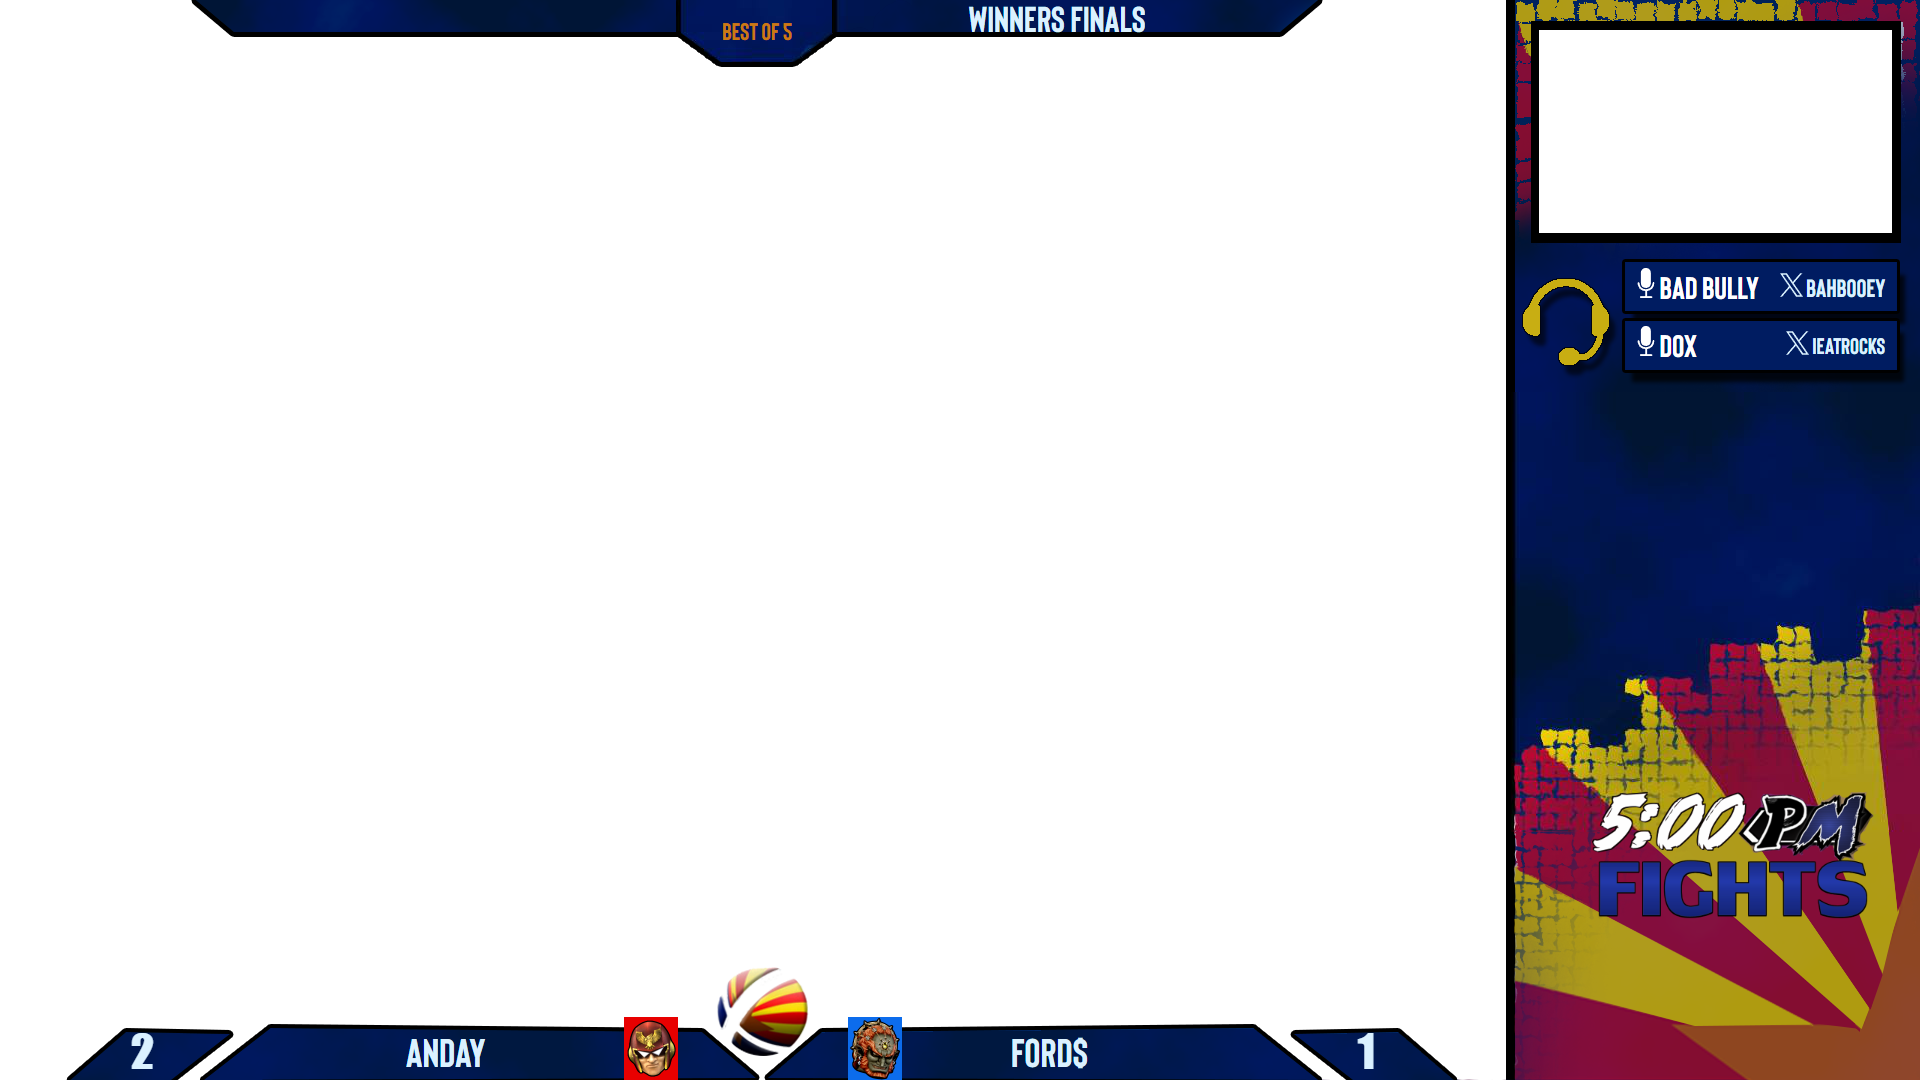
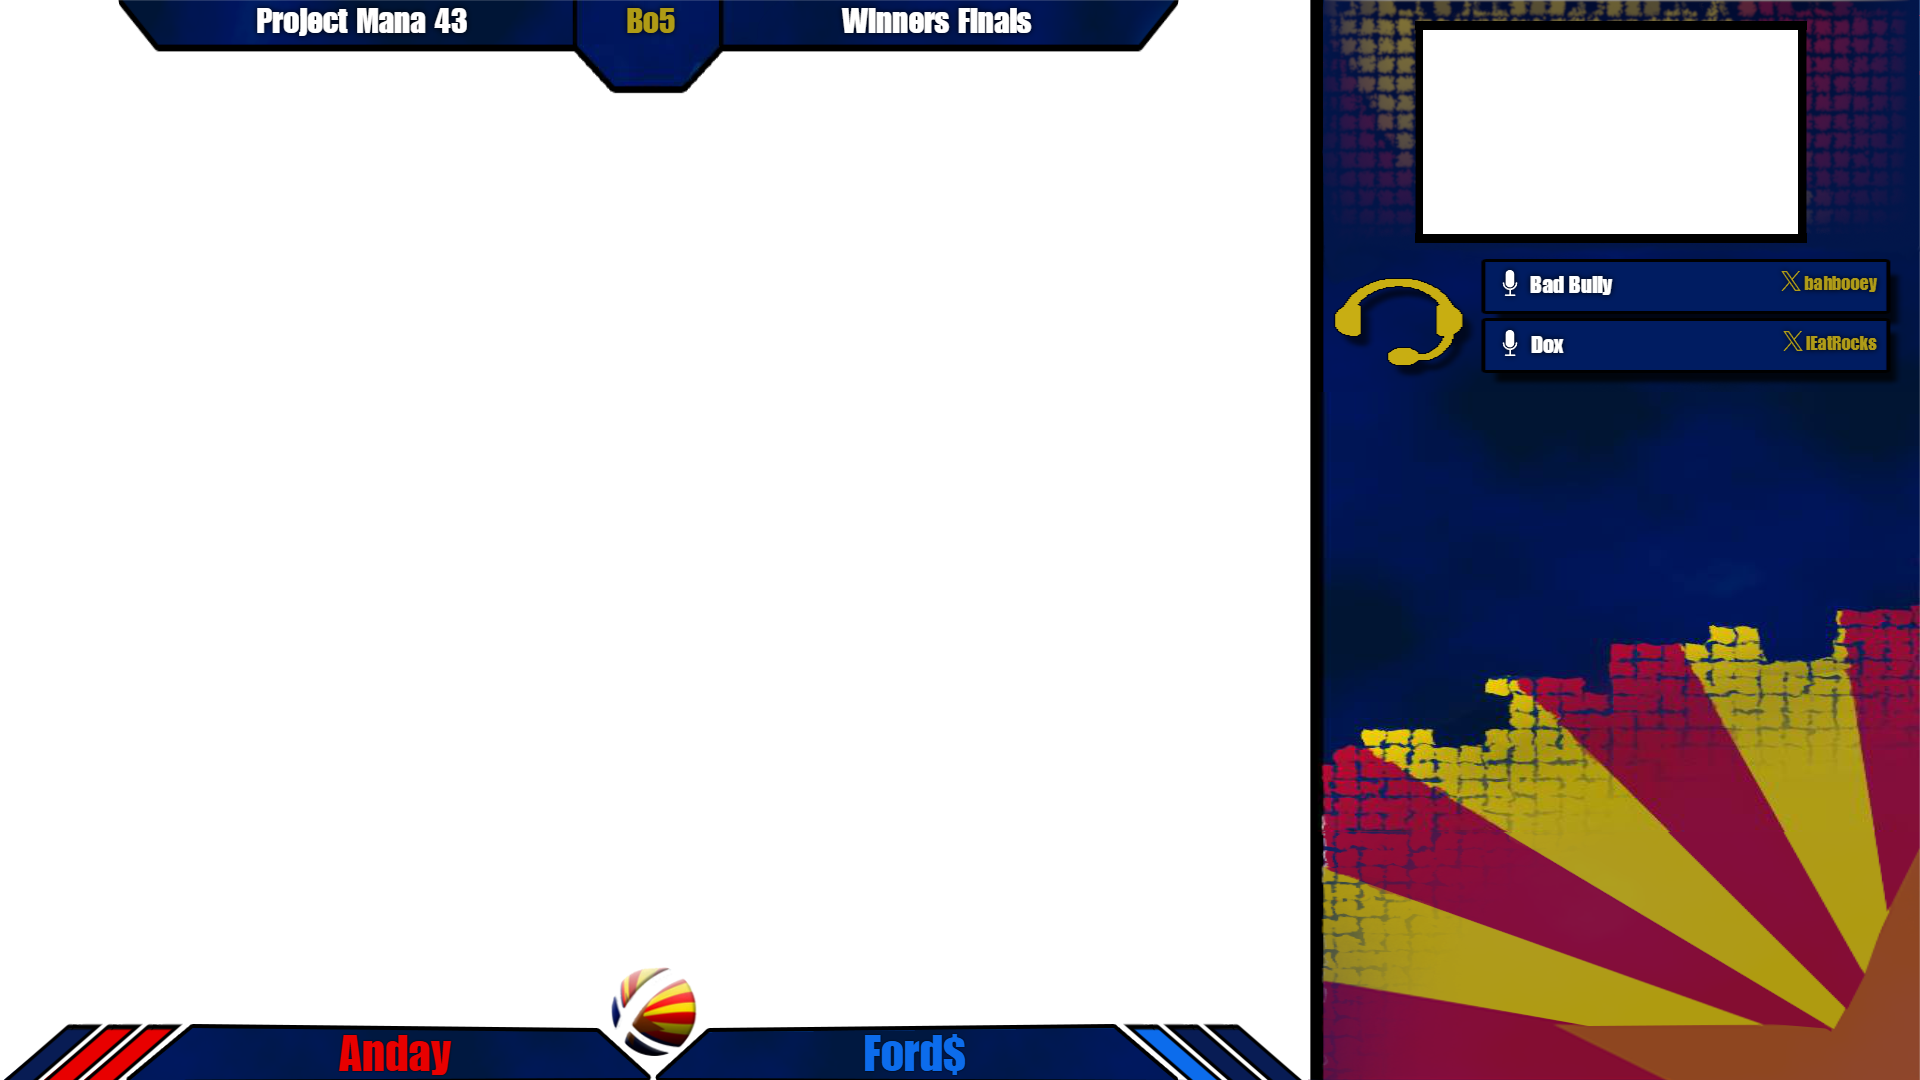
AZPM Singles: match the 2023 layout
Frame with the 1310x1080 game area, score ticks that fill with the team
colour, names in the team colour, tournament name and Bo3/Bo5 in the top
bar. Character icons, numeric score and logo slideshow removed from this
page. In doubles each side shows 'player & player'.

Changed region(s): [[0.0625, 0.0, 1.0, 1.0], [0.0, 0.9472, 0.2812, 1.0], [0.8438, 0.3667, 0.9062, 0.4278]]

diff --git a/Stream Tool/Resources/AZPM/CSS/Game Layouts.css b/Stream Tool/Resources/AZPM/CSS/Game Layouts.css
@@ -1,6 +1,7 @@
 /*
 AZPM game layouts: AZPM Singles.html, AZPM Doubles.html, AZPM Commentary.html.
-Ported from the AZPM 2022 Stream Tool v1.5 (SinglesLayout / DubsLayout / Commentary).
+Singles is ported from the AZPM Stream Tool V1 of 2023 (Game Scoreboard 4.3),
+Doubles and Commentary from the AZPM 2022 Stream Tool v1.5.
 Positions are in px on a 1920x1080 canvas and follow the frame art in
 Resources/AZPM/Overlay/Game Layouts.
 */
@@ -19,6 +20,9 @@ Resources/AZPM/Overlay/Game Layouts.
 }
 
 body {
+    /* team colours, set by Layout.mjs */
+    --colorL: white;
+    --colorR: white;
     width: 1920px;
     height: 1080px;
     overflow: hidden;
@@ -33,6 +37,10 @@ body {
     position: absolute;
     left: 0;
     top: 0;
+}
+
+.mirror {
+    transform: scaleX(-1);
 }
 
 /* every text box: fixed place, text centered, shrinks to fit (see Layout.mjs) */
@@ -102,140 +110,146 @@ body {
 }
 
 
-/* ---------- AZPM Singles (4:3 game on the left, cam and casters on the right) ---------- */
+/* ---------- AZPM Singles (game on the left, cam and casters on the right) ----------
+   The game area of the frame is 1310x1080 (x 0-1309), the 640:528 shape of the
+   game's own picture. Also used for doubles: each side then shows "player & player". */
 
 .singles {
-    font-family: "Bison";
+    font-family: "ScoreFont";
 }
 
-.singles #round {
-    left: 857px;
+/* top bar: tournament, best of, round */
+.singles .topText {
     top: 0;
-    width: 400px;
-    height: 36px;
-    line-height: 36px;
+    height: 44px;
+    line-height: 43px;
+    filter: drop-shadow(0px 0px 3px black);
+}
+.singles #tournament {
+    left: 172px;
+    width: 380px;
 }
 .singles #bestOf {
-    left: 687px;
-    top: 17px;
-    width: 140px;
-    height: 28px;
-    line-height: 28px;
-    color: #CA7A13;
+    left: 586px;
+    width: 130px;
+    color: #AF9B15;
+}
+.singles #round {
+    left: 757px;
+    width: 360px;
 }
 
+/* bottom bar: names in the team colour */
 .singles .wrappers {
-    top: 1024px;
-    width: 255px;
-    height: 56px;
-    line-height: 54px;
+    top: 1023px;
+    width: 400px;
+    height: 57px;
+    line-height: 62px;
+    filter: drop-shadow(0px 0px 1px #000000);
 }
 .singles #p1Wrapper {
-    left: 318px;
+    left: 195px;
+    color: var(--colorL);
 }
 .singles #p2Wrapper {
-    left: 922px;
+    left: 715px;
+    color: var(--colorR);
+}
+.singles .name {
+    transition: color .3s;
 }
 .singles .tag {
-    padding-right: 4px;
+    padding-right: 6px;
+    color: #BDAE42;
 }
 .singles .pronouns {
-    padding-left: 4px;
-    color: #9700C9;
-    font-style: italic;
+    padding-left: 6px;
+    color: #BDAE42;
 }
 
-.singles .score {
-    top: 1025px;
-    width: 154px;
-    height: 55px;
-    line-height: 55px;
-    font-family: "ScoreFont";
-    font-size: 50px;
-}
-.singles #p1Score {
-    left: 0;
-    text-align: right;
-}
-.singles #p2Score {
-    left: 1356px;
-    text-align: left;
-}
-
-/* team colour box with the character's stock icon on it */
-.singles .color {
+/* score ticks: one per game needed to win, filled with the team colour when won.
+   Same markup and offsets as the 2023 layout. */
+.singles .scores {
     position: absolute;
-    top: 1017px;
-    width: 54px;
-    height: 63px;
-    overflow: hidden;
+    bottom: 57px;
 }
-.singles #p1Color {
-    left: 624px;
+.singles #p1Ticks {
+    left: 82px;
 }
-.singles #p2Color {
-    left: 848px;
+.singles #p2Ticks {
+    left: 1123px;
 }
-.singles .charIcon {
-    position: absolute;
-    left: -5px;
-    top: 0;
-    width: 64px;
-    height: 64px;
-    visibility: hidden;
+.singles .scoreTick {
+    position: relative;
+    transition: opacity .3s;
+}
+.singles .scoreTick polygon {
+    fill: #081C54;
+}
+.singles .scoreTickColor {
+    width: 100px;
+    height: 100px;
+}
+.singles #p1Ticks .scoreTick:nth-child(2) {
+    right: 40px;
+}
+.singles #p1Ticks .scoreTick:nth-child(3) {
+    right: 80px;
+}
+.singles #p2Ticks .scoreTick:nth-child(2) {
+    left: 40px;
+}
+.singles #p2Ticks .scoreTick:nth-child(3) {
+    left: 80px;
 }
 
+/* right panel: casters */
 .singles .caster {
-    left: 1625px;
-    width: 272px;
+    left: 1485px;
+    width: 402px;
     height: 50px;
-    line-height: 50px;
+    line-height: 48px;
+    filter: drop-shadow(0px 0px 3px black);
 }
 .singles #caster1 {
-    top: 262px;
+    top: 261px;
 }
 .singles #caster2 {
-    top: 320px;
+    top: 321px;
 }
 .singles .casterNameBox {
     position: absolute;
-    left: 10px;
+    left: 12px;
     top: 0;
 }
 .singles .micIcon {
-    width: 30px;
-    height: 30px;
-    margin: 0 -4px;
-    vertical-align: -5px;
+    width: 26px;
+    height: 26px;
+    margin-right: 4px;
+    vertical-align: -6px;
 }
 .singles .casterName {
     display: inline-block;
-    width: 122px;
+    max-width: 200px;
     text-align: left;
     vertical-align: top;
 }
 .singles .casterSocial {
     position: absolute;
-    right: 12px;
-    top: 0;
+    right: 10px;
+    top: -2px;
+    color: #AF9B18;
 }
 .singles .casterSocial .icon {
-    width: 24px;
-    height: 24px;
-    vertical-align: -4px;
+    width: 20px;
+    height: 20px;
+    vertical-align: -3px;
 }
 .singles .socialText {
     display: inline-block;
-    max-width: 80px;
+    max-width: 130px;
     text-align: left;
     vertical-align: top;
-}
-
-.singles #sponsorBox {
-    left: 1580px;
-    top: 700px;
-    width: 300px;
-    height: 300px;
 }
 
 

diff --git a/Stream Tool/AZPM Singles.html b/Stream Tool/AZPM Singles.html
@@ -12,49 +12,69 @@
     <img class="absol" src="Resources/AZPM/Overlay/Game Layouts/Singles.png" alt="">
 
     <!-- top bar -->
-    <span id="bestOf" class="textBox" data-size="24"></span>
-    <span id="round" class="textBox light" data-size="36"></span>
+    <span id="tournament" class="textBox topText" data-size="35"></span>
+    <span id="bestOf" class="textBox topText" data-size="35" data-format="short"></span>
+    <span id="round" class="textBox topText" data-size="35"></span>
 
-    <!-- bottom bar: score, name, character icon on the team colour -->
-    <span id="p1Score" class="textBox score light"></span>
-    <span id="p1Wrapper" class="textBox wrappers light">
-        <span id="p1Tag" class="tag" data-size="26"></span><span id="p1Name" class="name" data-size="40"></span><span id="p1Pron" class="pronouns" data-size="20"></span>
+    <!-- bottom bar: names in the team colour -->
+    <span id="p1Wrapper" class="textBox wrappers">
+        <span id="p1Tag" class="tag" data-size="32"></span><span id="p1Name" class="name" data-size="50"></span><span id="p1Pron" class="pronouns" data-size="24"></span>
     </span>
-    <div id="p1Color" class="color">
-        <img id="p1Icon" class="charIcon" alt="">
+    <span id="p2Wrapper" class="textBox wrappers">
+        <span id="p2Tag" class="tag" data-size="32"></span><span id="p2Name" class="name" data-size="50"></span><span id="p2Pron" class="pronouns" data-size="24"></span>
+    </span>
+
+    <!-- score ticks, first game first: filled with the team colour when the game is won -->
+    <div id="p1Ticks" class="scores">
+        <div class="scoreTick">
+            <svg class="absol mirror scoreTickColor"><polygon points="6,5 37,6 150,100 114,100"/></svg>
+            <img src="Resources/AZPM/Overlay/Game Layouts/Win Border.png" class="absol mirror" alt="">
+        </div>
+        <div class="scoreTick">
+            <svg class="absol mirror scoreTickColor"><polygon points="6,5 37,6 150,100 114,100"/></svg>
+            <img src="Resources/AZPM/Overlay/Game Layouts/Win Border.png" class="absol mirror" alt="">
+        </div>
+        <div class="scoreTick">
+            <svg class="absol mirror scoreTickColor"><polygon points="6,5 37,6 150,100 114,100"/></svg>
+            <img src="Resources/AZPM/Overlay/Game Layouts/Win Border.png" class="absol mirror" alt="">
+        </div>
+    </div>
+    <div id="p2Ticks" class="scores">
+        <div class="scoreTick">
+            <svg class="absol"><polygon points="6,5 37,6 150,100 114,100"/></svg>
+            <img src="Resources/AZPM/Overlay/Game Layouts/Win Border.png" class="absol" alt="">
+        </div>
+        <div class="scoreTick">
+            <svg class="absol"><polygon points="6,5 37,6 150,100 114,100"/></svg>
+            <img src="Resources/AZPM/Overlay/Game Layouts/Win Border.png" class="absol" alt="">
+        </div>
+        <div class="scoreTick">
+            <svg class="absol"><polygon points="6,5 37,6 150,100 114,100"/></svg>
+            <img src="Resources/AZPM/Overlay/Game Layouts/Win Border.png" class="absol" alt="">
+        </div>
     </div>
 
-    <div id="p2Color" class="color">
-        <img id="p2Icon" class="charIcon" alt="">
-    </div>
-    <span id="p2Wrapper" class="textBox wrappers light">
-        <span id="p2Tag" class="tag" data-size="26"></span><span id="p2Name" class="name" data-size="40"></span><span id="p2Pron" class="pronouns" data-size="20"></span>
-    </span>
-    <span id="p2Score" class="textBox score light"></span>
-
-    <!-- right panel: casters and logo slideshow -->
+    <!-- right panel: casters -->
     <div id="caster1" class="caster">
         <span class="casterNameBox">
             <span class="icon micIcon"></span>
-            <span id="caster1Name" class="casterName" data-size="31"></span>
+            <span id="caster1Name" class="casterName" data-size="24"></span>
         </span>
-        <span id="caster1Social" class="casterSocial light">
+        <span id="caster1Social" class="casterSocial">
             <span class="icon"></span>
-            <span class="socialText" data-size="25"></span>
+            <span class="socialText" data-size="20"></span>
         </span>
     </div>
     <div id="caster2" class="caster">
         <span class="casterNameBox">
             <span class="icon micIcon"></span>
-            <span id="caster2Name" class="casterName" data-size="31"></span>
+            <span id="caster2Name" class="casterName" data-size="24"></span>
         </span>
-        <span id="caster2Social" class="casterSocial light">
+        <span id="caster2Social" class="casterSocial">
             <span class="icon"></span>
-            <span class="socialText" data-size="25"></span>
+            <span class="socialText" data-size="20"></span>
         </span>
     </div>
-
-    <div id="sponsorBox"></div>
 
     <div id="connErrorDiv">
         Can't connect with GUI, attempting to reconnect every 5 seconds...
